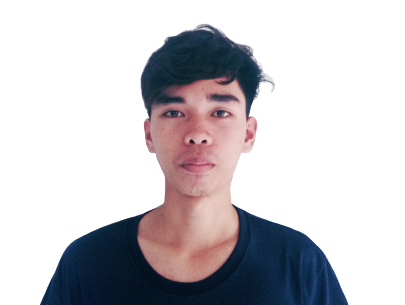
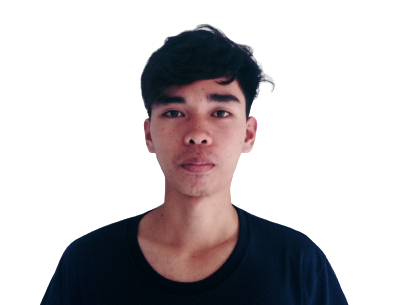
Added About Page

Changed region(s): [[0.0889, 0.0885, 0.8593, 1.0]]

diff --git a/src/components/pages/About.js b/src/components/pages/About.js
@@ -1,0 +1,108 @@
+import React from 'react';
+import myPicture from '../../img/jake.png';
+import backgroundPic from '../../img/grunge.png';
+import reactjsPic from '../../img/reactjs.png';
+import jsPic from '../../img/js.png';
+import htmlPic from '../../img/html5.png';
+import sassPic from '../../img/sass.png';
+import cssPic from '../../img/css.png';
+
+const About = () => {
+  return (
+    <div id="about">
+      <div className="container about">
+        <h1 className="page-title">About</h1>
+        <div className="about__content">
+          <div className="about__img-container">
+            <img className="about__img" src={myPicture} alt="jake" />
+            <img className="about__bg-img" src={backgroundPic} alt="blue" />
+          </div>
+          <div className="about__about-me">
+            <div className="about__title">About Me</div>
+            <p className="about__paragraph">
+              in nisl nisi scelerisque eu ultrices vitae auctor eu augue ut
+              lectus arcu bibendum at varius vel pharetra vel turpis nunc eget
+              lorem dolor sed viverra ipsum nunc aliquet bibendum enim facilisis
+              gravida neque convallis a cras semper auctor neque vitae tempus
+              quam pellentesque nec nam aliquam sem et tortor
+            </p>
+          </div>
+        </div>
+        <div className="about__skill">
+          <h1 className="about__skill-title">My Skills</h1>
+          <div className="about__skill-language">
+            <div className="about__skill-item">
+              <div className="about__skill-circle">
+                <div className="about__skill-overlay">
+                  <span className="about__skill-percentage">80%</span>
+                </div>
+                <img
+                  className="about__skill-img-1 about__skill-img"
+                  src={htmlPic}
+                  alt="html"
+                />
+              </div>
+              <h3 className="about__skill-name">Html</h3>
+            </div>
+            <div className="about__skill-item">
+              <div className="about__skill-circle">
+                <div className="about__skill-overlay">
+                  <span className="about__skill-percentage">70%</span>
+                </div>
+                <img
+                  className="about__skill-img-2 about__skill-img"
+                  src={cssPic}
+                  alt="css"
+                />
+              </div>
+              <h3 className="about__skill-name">Css</h3>
+            </div>
+
+            <div className="about__skill-item">
+              <div className="about__skill-circle">
+                <div className="about__skill-overlay">
+                  <span className="about__skill-percentage">80%</span>
+                </div>
+                <img
+                  className="about__skill-img-3 about__skill-img"
+                  src={sassPic}
+                  alt="sass"
+                />
+              </div>
+              <h3 className="about__skill-name">Sass</h3>
+            </div>
+
+            <div className="about__skill-item">
+              <div className="about__skill-circle">
+                <div className="about__skill-overlay">
+                  <span className="about__skill-percentage">60%</span>
+                </div>
+                <img
+                  className="about__skill-img-4 about__skill-img"
+                  src={jsPic}
+                  alt="javascript"
+                />
+              </div>
+              <h3 className="about__skill-name">Javascript</h3>
+            </div>
+
+            <div className="about__skill-item">
+              <div className="about__skill-circle">
+                <div className="about__skill-overlay">
+                  <span className="about__skill-percentage">50%</span>
+                </div>
+                <img
+                  className="about__skill-img-5 about__skill-img"
+                  src={reactjsPic}
+                  alt="react js"
+                />
+              </div>
+              <h3 className="about__skill-name">React JS</h3>
+            </div>
+          </div>
+        </div>
+      </div>
+    </div>
+  );
+};
+export default About;

diff --git a/src/styles/_about.scss b/src/styles/_about.scss
@@ -1,0 +1,132 @@
+#about {
+  width: 100vw;
+  height: 100vh;
+  background-color: $color-secondary;
+}
+.about {
+  &__content {
+    display: flex;
+    justify-content: center;
+    align-items: center;
+    margin-top: 3rem;
+  }
+  &__img-container {
+    position: relative;
+  }
+  &__bg-img {
+    position: absolute;
+    top: 3rem;
+    left: -1rem;
+    transform: scale(1.1);
+    z-index: 1;
+  }
+  &__img {
+    position: relative;
+    z-index: 2;
+  }
+  &__about-me {
+    padding: 0 8rem;
+    margin-left: 2rem;
+  }
+  &__title {
+    font-size: 3.5rem;
+    margin-bottom: 2rem;
+    text-transform: uppercase;
+    display: inline-block;
+    position: relative;
+
+    &::after {
+      content: '';
+      width: 65%;
+      height: 0.3rem;
+      background-color: $color-white;
+      position: absolute;
+      left: 0;
+      bottom: 0;
+    }
+    &::before {
+      content: 'Who am i';
+      font-size: 1.2rem;
+      color: $color-primary;
+      position: absolute;
+      right: 0;
+      bottom: -0.75rem;
+    }
+  }
+  &__paragraph {
+    font-size: 2.1rem;
+  }
+
+  &__skill {
+    margin-top: 6rem;
+    background-color: $color-tertiary;
+    padding: 0 4rem 4rem 4rem;
+    &-title {
+      text-align: center;
+      font-size: 4rem;
+      font-weight: 400;
+      margin-bottom: 3rem;
+    }
+    &-language {
+      display: grid;
+      grid-template-columns: repeat(auto-fill, minmax(18rem, 1fr));
+      justify-items: center;
+    }
+    &-item {
+      text-align: center;
+      font-size: 2.5rem;
+      font-weight: 400;
+      position: relative;
+    }
+
+    &-img {
+      width: 15rem;
+      height: 15rem;
+      border-radius: 50%;
+      border-style: solid;
+      border-width: 0.7rem;
+    }
+    &-circle {
+      width: 15rem;
+      height: 15rem;
+      position: relative;
+    }
+    &-overlay {
+      width: 90.9%;
+      height: 90.9%;
+      position: absolute;
+      background-color: rgba($color: #000000, $alpha: 0.8);
+      border-radius: 50%;
+      display: flex;
+      top: 0.7rem;
+      left: 0.7rem;
+      align-items: center;
+      justify-content: center;
+    }
+    &-percentage {
+      font-weight: 500;
+      font-size: 3.5rem;
+    }
+    &-img {
+      &-1 {
+        border-color: #ff75a0;
+      }
+      &-2 {
+        border-color: #7c9473;
+      }
+      &-3 {
+        border-color: #ffc1b6;
+      }
+      &-4 {
+        border-color: #d6b0b1;
+      }
+      &-5 {
+        border-color: #b8b5ff;
+      }
+    }
+    &-name {
+      font-weight: 400;
+      margin-top: 1rem;
+    }
+  }
+}

diff --git a/src/styles/_home.scss b/src/styles/_home.scss
@@ -12,14 +12,16 @@
     justify-content: center;
     align-items: flex-end;
   }
+
   &__img {
     transform: translate(23rem, 1rem);
-    border-radius: 50%;
-    border-style: solid;
-    border-width: 5px;
-    border-color: $color-secondary $color-primary;
-    width: 45rem;
-    height: 45rem;
+    
+    border-radius:50%;
+    width: 46rem;
+    height: 46rem;
+    
+    animation: mover 1s infinite  alternate;
+    
   }
   &__right {
     background-color: $color-secondary;
@@ -44,4 +46,19 @@
       font-size: 2.1rem;
     }
   }
+}
+
+@keyframes mover {
+    0% { 
+      transform: translate(23rem,1rem);
+      box-shadow:0 .5rem 3rem .5rem rgba(0,0,0,.5); 
+      border: 2rem solid $color-primary;
+      
+    }
+    100% { transform: translate(23rem,-1rem); 
+    box-shadow:0 .5rem 1rem .5rem rgba(0,0,0,.5);
+    border: 2rem solid $color-secondary;
+    
+    
+    }
 }

diff --git a/src/components/App.js b/src/components/App.js
@@ -1,9 +1,10 @@
 import React from 'react';
 import { Router, Route, Switch } from 'react-router-dom';
-
+import Navbar from '../components/Navbar';
 import '../styles/main.scss';
 
 import Home from '../components/pages/Home';
+import About from '../components/pages/About';
 
 import history from '../history';
 
@@ -12,8 +13,10 @@ class App extends React.Component {
     return (
       <div>
         <Router history={history}>
+          <Navbar />
           <Switch>
-            <Route path="/" exact component={Home}></Route>
+            <Route path="/" exact component={Home} />
+            <Route path="/About" exact component={About} />
           </Switch>
         </Router>
       </div>

diff --git a/src/components/pages/Home.js b/src/components/pages/Home.js
@@ -1,14 +1,14 @@
 import React from 'react';
 import myPicture from '../../img/jake.png';
-import Navbar from '../Navbar';
 
 const Home = () => {
   return (
     <main className="home">
-      <Navbar />
       <div className="home__layout">
         <div className="home__left">
-          <img className="home__img" src={myPicture} alt="Jake" />
+          <div className="home__img-container">
+            <img className="home__img" src={myPicture} alt="Jake" />
+          </div>
         </div>
         <div className="home__right">
           <div className="home__right-content">

diff --git a/src/styles/_utilities.scss b/src/styles/_utilities.scss
@@ -15,12 +15,24 @@
   font-size: 2rem;
   background-color: $color-primary;
   border: none;
-  transition: background-color 0.3s;
+  transition: all 0.3s;
   cursor: pointer;
+
 
   &:hover {
     background-color: rgba($color-primary, 0.7);
+    transform:translateY(-.3rem);
   }
+  &:focus{
+    transform:translateY(0);
+  }
+}
+.page-title{
+  font-weight:500;
+  text-align:center;
+  font-size:7.2rem;
+  font-family:'Roboto';
+  padding-top:15rem;
 }
 
 @keyframes addWidth {

diff --git a/src/styles/main.scss b/src/styles/main.scss
@@ -2,3 +2,4 @@
 @import 'utilities';
 @import 'navbar';
 @import "home";
+@import "about";
